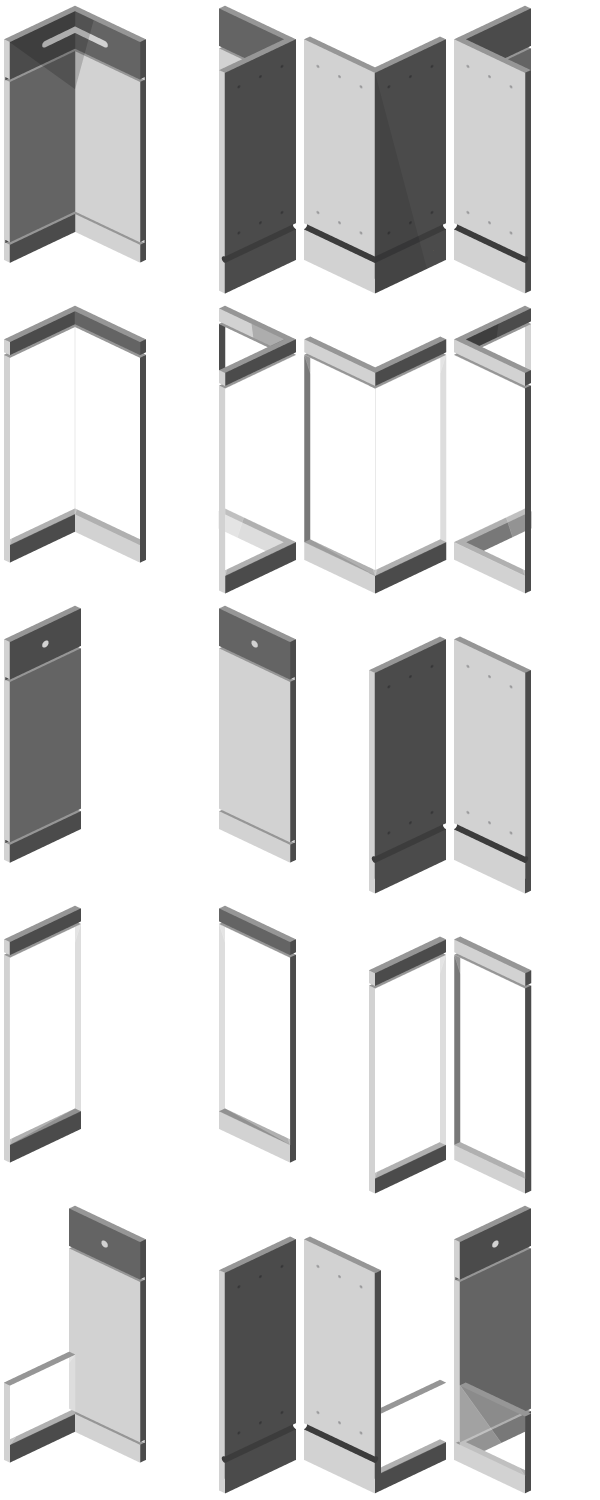
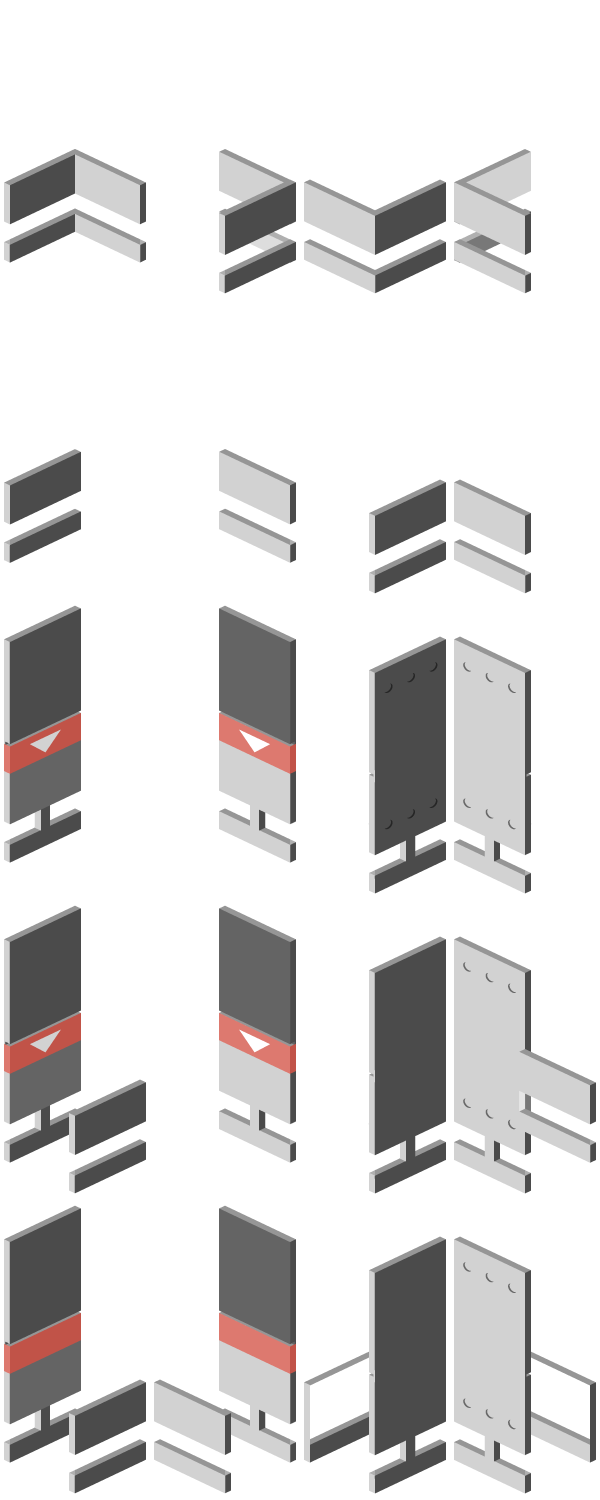
new uw textures and url vars

diff --git a/js/player_move.js b/js/player_move.js
@@ -108,7 +108,7 @@ function processToMove(route,floor,newPos){
 
 	var lal=getDepths(route,floor);
 	
-	$('#jugador01').css({'z-index': dep});	
+	$('#jugador01').css({'z-index': lal[ptm]});	
 	$('#jugador01').animate({
 		top: mik.y+px,
 		left: mik.x+px,
@@ -195,7 +195,7 @@ function analizeWalls(lim){
 		var action=eval('floor_'+Player.floor)[a[h].y][a[h].x];
 		if(findAction(action)!=undefined){
 			//console.log(a.length);
-			b.push(findAction(action));
+			b.push([findAction(action),{y: a[h].y, x:a[h].x }]);
 		}
 	}
 	//console.log(b);
@@ -206,14 +206,14 @@ function createActionButtons(arr){
 	var action;
 	//console.log(arr.length);
 	for(var g=0;g<arr.length;g++){
-		if(arr[g]>=61 && arr[g]<=68){////////////enter
+		if(arr[g][0]>=61 && arr[g][0]<=68){////////////enter
 			action="enter";
 		}
-		if(arr[g]>=81 && arr[g]<=124 || arr[g]>=260 && arr[g]<=305){////////////up yellow
+		if(arr[g][0]>=81 && arr[g][0]<=124 || arr[g][0]>=260 && arr[g][0]<=305){////////////up yellow
 			action="one_up";
 		}
 		//console.log(action);
-		$('body').append('<div id="p_btn'+g+'" p_a="'+action+'" class="a_btn"/>');
+		$('body').append('<div id="p_btn'+g+'" p_a="'+action+'" class="a_btn" y="'+arr[g][1].y+'" x="'+arr[g][1].x+'"/>');
 		var play=$('#jugador01').offset();
 		$('#p_btn'+g).css({
 			top: play.top+"px",
@@ -226,12 +226,18 @@ function createActionButtons(arr){
 		console.log(g);
 		switch(g){
 			case "one_up":
-				console.log('up');
+				var p=eval('floor_'+Player.floor)[parseInt($(this).attr('y'))][parseInt($(this).attr('x'))];
+				if(p==264 || p==304){
+					Player.coord.x-=6;
+					Player.face=3;
+				}
+				
 				$('#jugador01, .a_btn').remove();
 				clearWalls(20,"show");
 				Player.floor+=1;
-				startFloor(Player.floor,Player.cam)
+				startFloor(Player.floor,Player.cam);
 				startPlayer(Player.floor,Player.coord,getColor(eval('floor_'+Player.floor)[Player.coord.y][Player.coord.x]));
+				flipPlayer(Player.floor, Player.coord, Player.cam, Player.face);
 				break;
 			default: break;
 		}
@@ -256,28 +262,25 @@ function clearWalls(lim,mode){
 				case "show":
 					texture=lvl+level;
 					break;
-			}	
+			}
+			console.log	(lvl);
+			console.log(wallValue(farbe,lvl));
 			tile.attr('class','txt'+Math.abs(texture)); 
 		}
 	}
-}
-function getRanges(color){
-	var rangos=[13,24,25,36,61,68,81,120];
-	return rangos;
+	console.log('//////////////////')
 }
 function wallValue(farbe,val){
-	var p=0, lol=getRanges(), e;
-	switch(farbe){
-		case "yellow": e=0; break;
-		case "red": e=180; break;
-		case "blue": e=360; break;
-		default: break;
-	}
-	/*if(val>(lol[0]+e) && val<(lol[1]+e)) p=24;
-	if(val>(lol[2]+e) && val<(lol[3]+e)) p=8;
-	if(val>(lol[4]+e) && val<(lol[5]+e)) p=20;*/
-
-	if(val>=lol[0]+e && val<=lol[1]+e){
+	var p=0, lol=getRanges(), e=getColorStart(farbe);
+	
+	if(val>=lol[0]+e && val<=lol[1]+e) p=24;
+	if(val>=lol[2]+e && val<=lol[3]+e) p=24;
+	if(val>=lol[4]+e && val<=lol[5]+e) p=8;
+	if(val>=lol[6]+e && val<=lol[7]+e) p=20;
+	
+	return val+p;
+	//if(val>=13 && val<=24) p=24;
+	/*if(val>=lol[0]+e && val<=lol[1]+e){
 		 if(val%4==0 || val%4==3){
 			p=24;
 		 }
@@ -297,27 +300,34 @@ function wallValue(farbe,val){
 		if(val%4==0 || val%4==3){
 			p=20;
 		}
-	}
+	}*/
 	
 
-	return val+p;
-	/*if(farbe=="yellow"){
-		if(val%4!=1){
-			if(val>2 && val<37) p=24;
-			if(val>60 && val<69) p=8;
-			if(val>80 && val<121) p=20;
-		}
+	
+}
+function getRanges(color){
+	var rangos=[13,24,25,36,61,68,81,120];
+	return rangos;
+}
+function getColorStart(farbe){
+	switch(farbe){
+		case 'yellow': return 0; break;
+		case 'red': return 180; break;
+		case 'blue': return 360; break;
+		default: return false; break;
 	}
-////////////rest of color ranges here 
-	if(farbe=="red"){
-		if(val%4!=1){
-			if(val>182 && val<217) p=24;
-			if(val>240 && val<249) p=8;
-			if(val>261 && val<301) p=20;
-		}
+}
+function rotableWalls(farbe,val){
+	var e=getColorStart(farbe);
+	var a=getRanges();
+	if(	val>=(a[0]+e) && val<=(a[1]+e) ||
+		val>=(a[2]+e) && val<=(a[3]+e) ||
+		val>=(a[4]+e) && val<=(a[5]+e) ||
+		val>=(a[6]+e) && val<=(a[7]+e)	){
+		return true;
+	}else{
+		return false;
 	}
-////////////////////////////////////////////////
-	return val+p;*/
 }
 function flipTileWall(cam,value){
 	var p=0;
@@ -344,21 +354,6 @@ function flipTileWall(cam,value){
 	return parseInt(p);
 }
 
-function rotableWalls(farbe,val){
-	var e;
-	switch(farbe){
-		case 'yellow': e=0; break;
-		case 'red': e=180; break;
-		case 'blue': e=360; break;
-		default: return false; break;
-	}
-	var a=getRanges();
-	if(val>(a[0]+e+10) && val<(a[1]+e) || val>(a[2]+e) && val<(a[3]+e) || val>(a[4]+e) && val<(a[5]+e)){
-		return true;
-	}else{
-		return false;
-	}
-}
 
 function actionValidate(val){
 	var actions=[

diff --git a/js/levels_new.js b/js/levels_new.js
@@ -80,12 +80,12 @@ floor_2[4]=[602,602,602,541,29,18,18,18,18,18,18,18,18,18,18,30,601,543,602,602]
 floor_2[5]=[602,602,602,541,17,2,2,2,2,2,2,2,2,2,2,19,601,543,602,602];
 floor_2[6]=[602,602,602,541,17,2,2,2,2,2,2,2,2,2,2,63,601,543,602,602];
 floor_2[7]=[602,602,602,541,369,367,2,2,2,2,2,2,2,2,2,67,601,543,602,602];
-floor_2[8]=[602,602,602,541,409,367,2,2,2,2,2,2,2,2,2,19,601,543,602,602];
-floor_2[9]=[602,602,602,541,409,367,2,2,2,2,2,2,2,2,2,19,601,543,602,602];
-floor_2[10]=[602,602,602,541,409,0,205,198,198,198,198,198,242,246,198,210,601,543,602,602];
-floor_2[11]=[602,602,602,541,420,0,193,182,182,182,182,182,182,182,182,199,601,543,602,602];
-floor_2[12]=[602,602,602,541,420,0,193,182,182,182,182,182,182,182,182,199,601,543,602,602];
-floor_2[13]=[602,602,602,541,420,0,208,196,196,196,196,182,182,182,182,199,601,543,602,602];
+floor_2[8]=[602,602,602,541,385,367,2,2,2,2,2,2,2,2,2,19,601,543,602,602];
+floor_2[9]=[602,602,602,541,385,367,2,2,2,2,2,2,2,2,2,19,601,543,602,602];
+floor_2[10]=[602,602,602,541,385,0,205,198,198,198,198,198,242,246,198,210,601,543,602,602];
+floor_2[11]=[602,602,602,541,385,0,193,182,182,182,182,182,182,182,182,199,601,543,602,602];
+floor_2[12]=[602,602,602,541,385,0,193,182,182,182,182,182,182,182,182,199,601,543,602,602];
+floor_2[13]=[602,602,602,541,385,0,208,196,196,196,196,182,182,182,182,199,601,543,602,602];
 floor_2[14]=[602,602,602,541,183,183,320,316,312,308,304,182,182,182,182,199,601,543,602,602];
 floor_2[15]=[602,602,602,541,183,183,280,276,272,268,264,200,200,200,200,211,601,543,602,602];
 floor_2[16]=[602,602,602,552,544,544,544,544,544,544,544,544,544,544,544,544,544,551,602,602];
@@ -106,8 +106,8 @@ floor_3[10]=[,,,,193,182,182,182,182,182,182,182,182,182,182,195,,,,];
 floor_3[11]=[,,,,193,182,182,182,182,182,182,182,182,182,182,195,,,,];
 floor_3[12]=[,,,,193,182,182,182,182,182,182,182,182,182,182,195,,,,];
 floor_3[13]=[,,,,193,182,182,182,182,182,182,182,182,182,182,195,,,,];
-floor_3[14]=[,,,,193,182,366,366,366,366,362,182,182,182,182,195,,,,];
-floor_3[15]=[,,,,208,196,372,412,412,412,419,196,196,196,196,207,,,,];
+floor_3[14]=[,,,,193,182,406,406,406,406,402,182,182,182,182,195,,,,];
+floor_3[15]=[,,,,208,196,412,428,428,428,431,196,196,196,196,207,,,,];
 floor_3[16]=[,,,,,,,,,,,,,,,,,,,];
 floor_3[17]=[,,,,,,,,,,,,,,,,,,,];
 floor_3[18]=[,,,,,,,,,,,,,,,,,,,];

diff --git a/js/level_generator.js b/js/level_generator.js
@@ -353,6 +353,7 @@ function flipPlayer(f,pos,cam,face){
 	Player.face=face;
 	startPlayer(f,newPos,farbe);
 }
+
 function update_player(p,attr){
 	p=new playerAttr(attr.y,attr.x,attr.face,"jugador01",attr.floor);
 }
@@ -361,7 +362,7 @@ function flipClass(arr,f,typ){
 		for(var i=0;i<arr[0].length; i++){
 			var t=arr[g][i];
 			if(
-			t>4 && t<181 || t>185 && t<353 || t>360 && t<425 || 
+			t>4 && t<181 || t>185 && t<353 || t>360 && t<461 || 
 			t>540 && t<581 || t>640 && t<717 ||
 			t>724 && t<797 || t>824 && t<885
 			){////yellow
@@ -382,7 +383,35 @@ function playerAttr(y,x,face,cam,floor){
 	this.floor=floor;
 	this.coord={y,x};
 }
-var Player=new playerAttr(11,7,1,'rev',2);
+//var Player=new playerAttr(12,7,1,'ori',3);
+function getPlayerVars(){
+	var	_url=window.location.href,
+		f=_url.search('f='),
+		y=_url.search('py='),
+		x=_url.search('px='),
+		c=_url.search('pc='),
+		pf=_url.search('pf='),
+		floor=_url.substring(f+2,y-1),
+		py=_url.substring(y+3,x-1),
+		px=_url.substring(x+3,c-1),
+		pc=_url.substring(c+3,pf-1),
+		pf=_url.substring(pf+3,_url.length);
+
+	return{
+		floor: parseInt(floor),
+		y: parseInt(py),
+		x: parseInt(px),
+		cam: pc,
+		face: parseInt(pf)
+	}
+}
+var Player=new playerAttr(
+	getPlayerVars().y,
+	getPlayerVars().x,
+	getPlayerVars().face,
+	getPlayerVars().cam,
+	getPlayerVars().floor
+	);
 
 $(document).ready(function(){
 	assignStyles();
@@ -398,7 +427,7 @@ $(document).ready(function(){
 		startFloor(kok,Player.cam);
 	}
 	startFloor(Player.floor,Player.cam);
-	flipPlayer(Player.floor,Player.coord,Player.cam,4);
+	flipPlayer(Player.floor,Player.coord,Player.cam,Player.face);
 	//startPlayer(Player.floor,Player.coord,getColor(eval('floor_'+Player.floor)[Player.coord.y][Player.coord.x]));
 	rotateFloorButton();
 });
